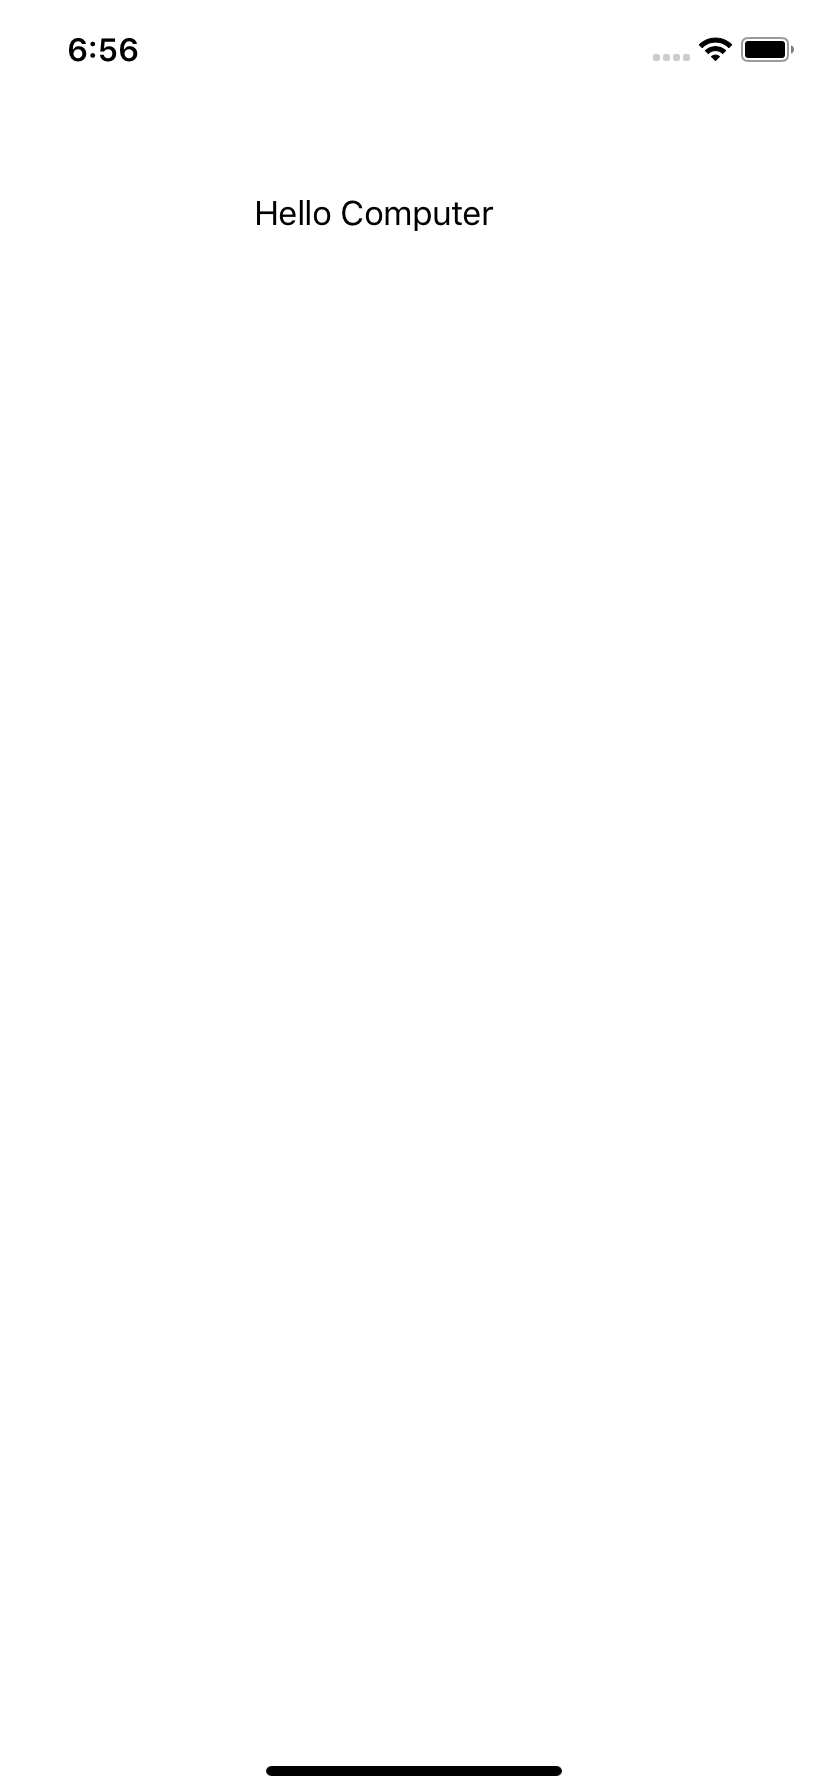
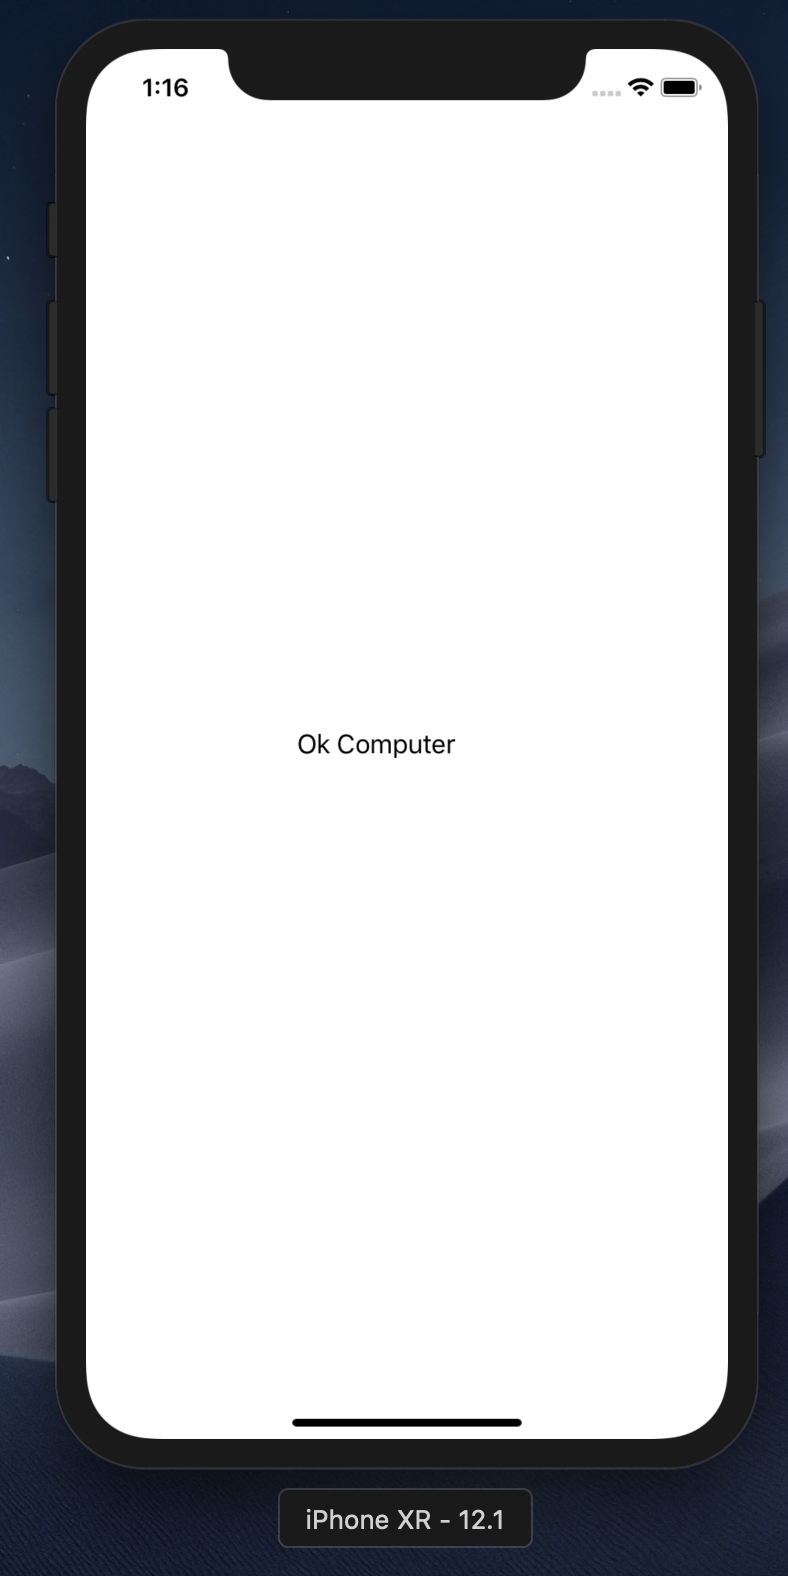
Refactored images for Ok Computer

diff --git a/content/docs/02_ok_computer.md b/content/docs/02_ok_computer.md
@@ -22,30 +22,29 @@ Let's start with creating our super simple iOS app - OK Computer. We are assumin
 
    ![image caption here for xcode](/images/Xcode_ChooseTemplate.png)
 
-3. Assign a product name i.e. Name of the product/app you want to build. In our case, let's call it "Hello Computer".
-4. Organisation name as MyCompany
+3. Assign a product name i.e. Name of the product/app you want to build. In our case, let's call it "Ok Computer".
+4. Put your organisation name if you wish to. Otherwise put any dummy name such as "mycompany". We will use Bombay Brew.
 5. Organisation identifier - This is a mandatory field and the next field "Bundle Identifier" is derived from this one. Bundle identifier is an unique key that is assigned to your app.
-6. Select "Swift" for language and leave other three boxes unchecked.
+6. Select "Swift" for language and leave other three boxes unchecked and click on "Next".
 
    ![image caption here for xcode](/images/Xcode_ProductName.png)
 
-7. Click on "Next"
-8. If you notice left pane of your Xcode, you can see some pregenerated files. This is the boilerplate code Xcode has generated for you depending upon the template you have chosen in step 2
+7. If you notice left pane of your Xcode, you can see some pregenerated files. This is the boilerplate code Xcode has generated for you depending upon the template you have chosen in step 2
 
    ![image caption here for xcode](/images/Xcode_TemplateFiles.png)
 
-9. Let's build and run our app and see what happens. You can find "Build" and "Run" options in "Product" menu. You can use also use shortcuts "Command + B" and "Command + R" respectively.
+8. Let's build and run our app and see what happens. You can find "Build" and "Run" options in "Product" menu. You can use also use shortcuts "Command + B" and "Command + R" respectively.
 
    ![image caption here for xcode](/images/Simulator_InitialProduct.png)
 
-10. When we run our app, Xcode builds the project first and if there are no errors, it will launch our app in a Simulator which shows a blank screen. As the name suggests, simulator is simulation of a physical device (iphone/ipad/Apple watch etc) that allows you to visualise your app without the need of physical device. Although, you can work with simulator most of the time, it's recommended that you test your app on a device before shipping to production as their are some features such as Face Id/Touch that can not be tested on a simulator or sometimes, there might be different behaviour of the same code when it is run on a simulator than when run on a device.
+9. When we run our app, Xcode builds the project first and if there are no errors, it will launch our app in a Simulator which shows a blank screen. As the name suggests, simulator is simulation of a physical device (iphone/ipad/Apple watch etc) that allows you to visualise your app without the need of physical device. Although, you can work with simulator most of the time, it's recommended that you test your app on a device before shipping to production as there are some features such as Face Id/Touch Id that can not be tested on a simulator ( at least as of now. Xcode may introduce this feature in future). Sometimes, there might be different behaviour of the same code when it is run on a simulator than when run on a device.
    Time to code now :)
-11. Select Main.storyboard file which can be found on the left pane of Xcode. You can see one View Controller similar to what we just saw in Simulator - a blank white screen. This .storyoard file will help you create your user interface of the app. You can even create user interface programatically but for now, let's use storyboard.
-12. Select Library button as shown in the below image. This library is a list of all the UI components such as labels, buttons,text fields etc. you need to build your app. These are system UI components provided by Apple. You can create your own UI components as per the requirement.
+10. Select Main.storyboard file which can be found on the left pane of Xcode. You can see one View Controller similar to what we just saw in Simulator - a blank white screen. This .storyoard file will help you create your user interface of the app. You can even create user interface programatically but for now, let's use storyboard.
+11. Select Library button as shown in the below image. This library is a list of all the UI components such as labels, buttons,text fields etc. you need to build your app. These are system UI components provided by Apple. You can create your own UI components as per the requirement.
 
    ![image caption here for xcode](/images/Xcode_UILibrary.png)
 
-13. Search for "UILabel" in this library and drag drop on View Controller wherever we want the label to be placed. Double click to change the default label from "Label" to "My Computer".
-14. That's it. Your "Hello Computer" app is ready. Hit "Command + R" and see your app in simulator.
+12. Search for "UILabel" in this library and drag drop on View Controller wherever we want the label to be placed. Double click to change the default label from "Label" to "Ok Computer".
+13. That's it. Your "Ok Computer" app is ready. Hit "Command + R" and see your app in simulator.
 
    ![image caption here for xcode](/images/Simulator_FinalProduct.png)
